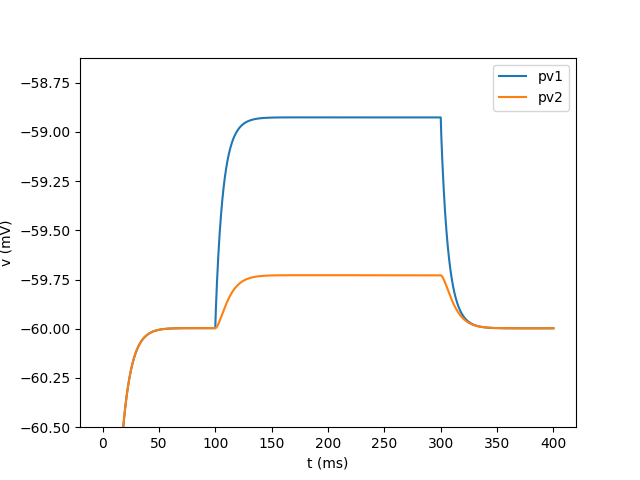
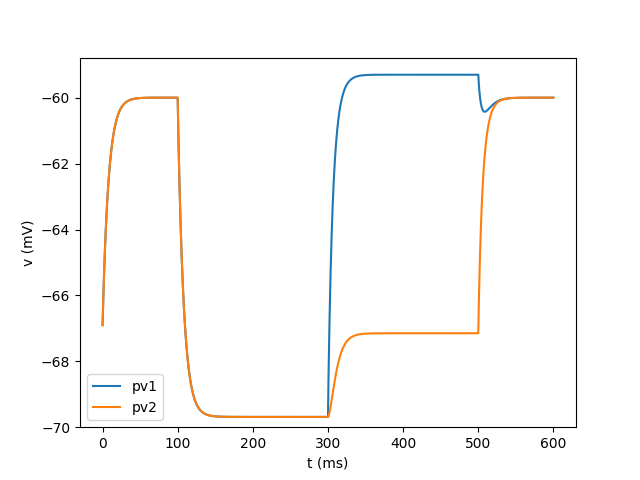
suppress APs

diff --git a/NCBC/src/cells/cell.py b/NCBC/src/cells/cell.py
@@ -1,17 +1,26 @@
 import csv
-from typing import List
+from collections.abc import Iterator
+from dataclasses import dataclass
 
 from neuron import h
 
 h.load_file("stdrun.hoc")
 
 class Cell:
+    name: str
+
     def __init__(self, id: int):
         self._id = id
         self.sections = []
         self.dendrites = []
         self._setup_morphology()
         self._setup_biophysics()
+    
+    def _setup_morphology(self) -> None:
+        raise NotImplementedError("_setup_morphology must be implemented")
+
+    def _setup_biophysics(self) -> None:
+        raise NotImplementedError("_setup_biophysics must be implemented")
 
     def add_soma(self, name: str, diameter: float, L: float):
         if hasattr(self, "soma"):
@@ -22,7 +31,7 @@ class Cell:
         self.soma.L = L
         self.sections.append(self.soma)
 
-    def add_dendrites(self, name: str, n_section: int, section_names: List[str], diameters: List[float], Ls: List[float], soma_location: float):
+    def add_dendrites(self, name: str, n_section: int, section_names: list[str], diameters: list[float], Ls: list[float], soma_location: float):
         if not hasattr(self, "soma"):
             raise AttributeError("soma does not exist")
         if len(section_names) != n_section or len(diameters) != n_section or len(Ls) != n_section:
@@ -53,22 +62,11 @@ class Cell:
         return sections
 
     def load_biophysics_from_file(self, path: str):
-        parameters: List[Parameter] = []
-        with open(path, "r") as f:
-            reader = csv.reader(f, delimiter="\t")
-            for row in reader:
-                if len(row) == 0 or row[0].startswith("#"):
-                    continue
-                if len(row) != 3:
-                    raise ValueError("Each row must have 3 columns")
-                
-                attribute_name = row[0]
-                section_name = row[1]
-                value = float(row[2])
+        parameters: list[Parameter] = []
+        for parameter in parameter_reader(path):
+            parameters.append(parameter)
 
-                parameters.append(Parameter(attribute_name, section_name, value))
-
-        mechanisms_for_each_section = {}
+        mechanisms_for_each_section: dict[str, list[str]] = {}
         for parameter in parameters:
             if mechanisms_for_each_section.get(parameter.section_name) is None:
                 mechanisms_for_each_section[parameter.section_name] = []
@@ -90,14 +88,23 @@ class Cell:
             for section in sections:
                 setattr(section, parameter.attribute_name, parameter.value)
 
+@dataclass(frozen=True)
 class Parameter:
-    def __init__(self, attribute_name: str, section_name: str, value: float):
-        self.attribute_name = attribute_name
-        self.section_name = section_name
-        self.value = value
+    attribute_name: str
+    section_name: str
+    value: float
 
-    def __repr__(self):
-        return f'Parameter({self.attribute_name}, {self.section_name}, {self.value})'
-
-    def __str__(self):
-        return f'attribute: {self.attribute_name}, section: {self.section_name}, value: {self.value}'
+def parameter_reader(path: str) -> Iterator[Parameter]:
+    with open(path, "r") as f:
+        reader = csv.reader(f, delimiter="\t")
+        for row in reader:
+            if len(row) == 0 or row[0].startswith("#"):
+                continue
+            if len(row) != 3:
+                raise ValueError("Each row must have 3 columns")
+            
+            attribute_name = row[0]
+            section_name = row[1]
+            value = float(row[2])
+    
+            yield Parameter(attribute_name, section_name, value)

diff --git a/NCBC/src/gap_junction.py b/NCBC/src/gap_junction.py
@@ -10,7 +10,8 @@ from cells import BasketCell
 
 @click.command()
 @click.option("-o", "--output", default="outputs", type=click.Path(exists=True), help="Path to output directory.")
-def simulate_gap_junction(output: str) -> None:
+@click.option("--negative", is_flag=True, help="Use negative current.")
+def simulate_gap_junction(output: str, negative: bool) -> None:
     pv1 = BasketCell(0)
     pv2 = BasketCell(1)
 
@@ -25,18 +26,29 @@ def simulate_gap_junction(output: str) -> None:
     h.setpointer(pv2.soma(0.5)._ref_v, "v_pair", gap1)
     h.setpointer(pv1.soma(0.5)._ref_v, "v_pair", gap2)
 
+    if not negative:
+        normalize_stimulus_1 = h.IClamp(pv1.dendrites[0](1))
+        normalize_stimulus_1.delay = 100 * ms
+        normalize_stimulus_1.dur = 400 * ms
+        normalize_stimulus_1.amp = -0.15  # nA
+
+        normalize_stimulus_2 = h.IClamp(pv2.dendrites[0](1))
+        normalize_stimulus_2.delay = 100 * ms
+        normalize_stimulus_2.dur = 400 * ms
+        normalize_stimulus_2.amp = -0.15  # nA
+
     stimulus = h.IClamp(pv1.dendrites[0](1))
 
-    stimulus.delay = 100 * ms
+    stimulus.delay = (300 if not negative else 100) * ms
     stimulus.dur = 200 * ms
-    stimulus.amp = 0.02  # nA
+    stimulus.amp = 0.2 if not negative else -0.2  # nA
 
     pv1_v = h.Vector().record(pv1.soma(0.5)._ref_v)
     pv2_v = h.Vector().record(pv2.soma(0.5)._ref_v)
     t = h.Vector().record(h._ref_t)
 
-    h.finitialize(-65 * mV)
-    h.continuerun(400 * ms)
+    h.finitialize(-66.9 * mV)
+    h.continuerun((600 if not negative else 400) * ms)
 
     fig, ax = plt.subplots()
 
@@ -45,6 +57,6 @@ def simulate_gap_junction(output: str) -> None:
     ax.set(xlabel="t (ms)", ylabel="v (mV)")
     ax.legend()
 
-    ax.set_ylim(bottom=-60.5)
+    ax.set_ylim(bottom=-70)
 
     plt.savefig(os.path.join(output, "gap_junction.png"))

diff --git a/NCBC/src/networks/network.py b/NCBC/src/networks/network.py
@@ -1,0 +1,8 @@
+class Network:
+    name: str
+
+    def __init__(self, id):
+        self.id = id
+        self.cells = []
+        self.connections = []
+        self.stimuli = []
